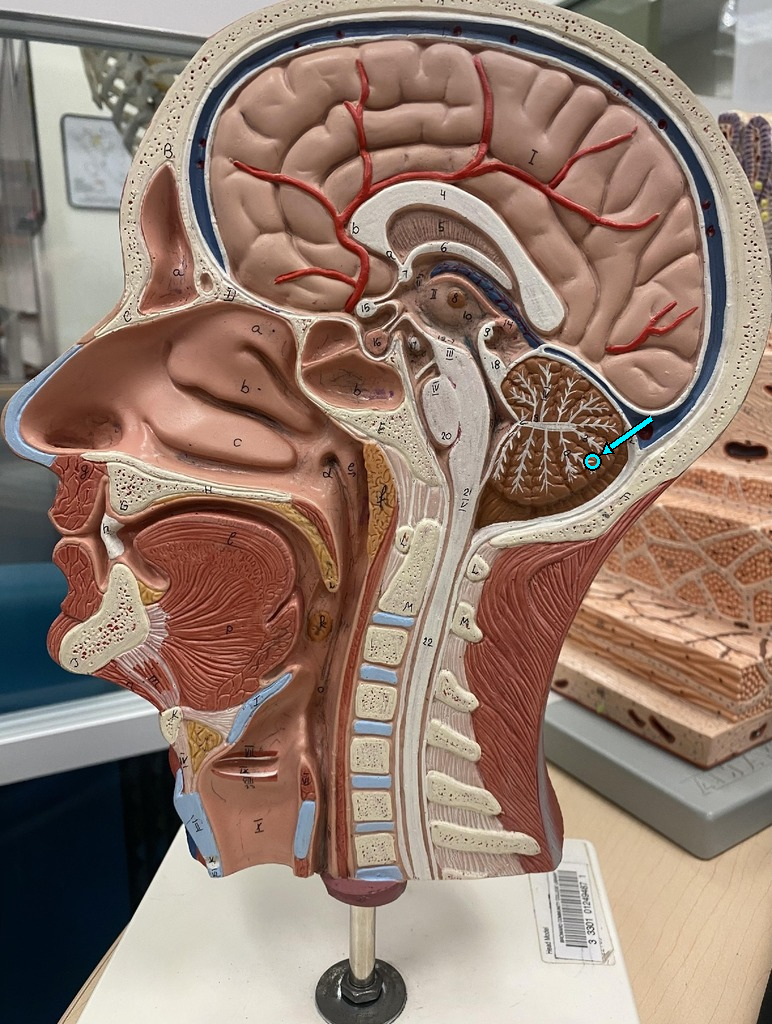
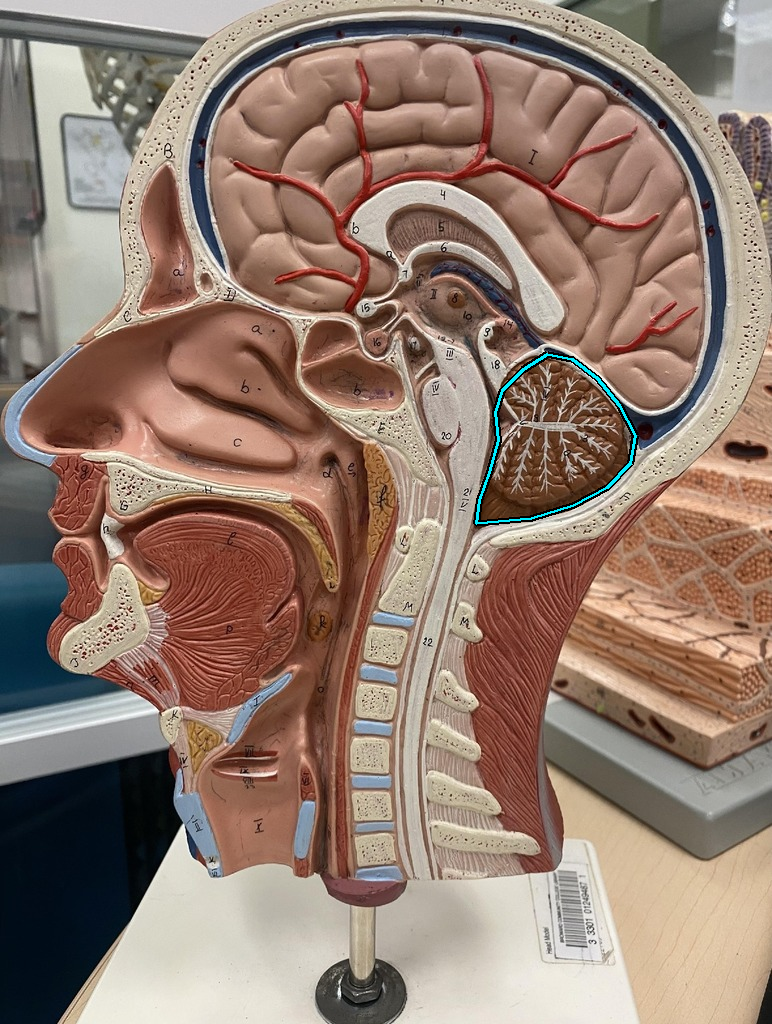
Distinguish the full cerebellum section from arbor vitae branching

Changed region(s): [[0.715, 0.375, 0.8394, 0.5], [0.5907, 0.375, 0.715, 0.5312], [0.6528, 0.3438, 0.7772, 0.375]]

diff --git a/tests/brain-left-sagittal.test.js b/tests/brain-left-sagittal.test.js
@@ -30,7 +30,7 @@ test('each identification card has its own marked image and supports both answer
             const model = manifest.models.find(model => model.id === question.labModelId);
             assert.equal(createHash('sha256').update(bytes).digest('hex'), model.imageSha256);
             assert.notEqual(model.imageSha256, manifest.sourceImageSha256);
-            assert.equal(question.question, 'Identify the structure indicated by the cyan arrow and open ring.');
+            assert.equal(question.question, model.questions[0].question);
             assert.ok(question.requiresModelImage);
             assert.ok(question.question.length > 30);
             if (mode === 'multiple_choice') {
@@ -70,4 +70,17 @@ for model in data['models']:
 print('26 pixel-preserving overlays verified')
 `], { cwd: new URL('..', import.meta.url), encoding: 'utf8' });
     assert.match(result, /26 pixel-preserving overlays verified/);
+});
+
+
+test('cerebellum highlights the full section while arbor vitae identifies multiple white branches', () => {
+    const cerebellum = manifest.models.find(m => m.name === 'Cerebellum');
+    const arbor = manifest.models.find(m => m.name === 'Arbor vitae');
+    assert.equal(cerebellum.annotation.kind, 'whole-section-outline');
+    assert.ok(cerebellum.annotation.outline.length > 10);
+    assert.match(cerebellum.questions[0].question, /entire section/);
+    assert.equal(arbor.annotation.kind, 'branching-network-markers');
+    assert.equal(arbor.annotation.targets.length, 3);
+    assert.match(arbor.questions[0].question, /branching network/);
+    assert.notEqual(arbor.expectedImageFile, cerebellum.expectedImageFile);
 });

diff --git a/scripts/renderBrainMarkers.py b/scripts/renderBrainMarkers.py
@@ -25,15 +25,36 @@ def main():
   draw.polygon(triangle,fill='#00edff',outline='black',width=2)
   draw.ellipse((x-radius-2,y-radius-2,x+radius+2,y+radius+2),outline='black',width=4)
   draw.ellipse((x-radius,y-radius,x+radius,y+radius),outline='#00edff',width=3)
+  special=None
+  if model['name']=='Cerebellum':
+   image=original.copy();draw=ImageDraw.Draw(image)
+   boundary=[(547,354),(572,359),(597,378),(619,405),(635,435),(630,463),(607,487),(573,505),(531,518),(476,523),(479,500),(489,472),(498,440),(495,412),(502,390),(523,369),(547,354)]
+   draw.line(boundary,fill='black',width=7,joint='curve');draw.line(boundary,fill='#00edff',width=3,joint='curve')
+   special={'kind':'whole-section-outline','outline':boundary,'overlayBounds':[470,348,641,529]}
+  elif model['name']=='Arbor vitae':
+   image=original.copy();draw=ImageDraw.Draw(image)
+   branches=[((539,389),(606,354)),((581,425),(656,411)),((547,468),(623,514))]
+   for (bx,by),start in branches:
+    dx,dy=bx-start[0],by-start[1];length=math.hypot(dx,dy);ux,uy=dx/length,dy/length
+    tip=(bx-ux*9,by-uy*9);base=(tip[0]-ux*12,tip[1]-uy*12)
+    triangle=[tip,(base[0]-uy*6,base[1]+ux*6),(base[0]+uy*6,base[1]-ux*6)]
+    draw.line([start,base],fill='black',width=8);draw.line([start,base],fill='#00edff',width=4)
+    draw.polygon(triangle,fill='#00edff',outline='black',width=2)
+    draw.ellipse((bx-7,by-7,bx+7,by+7),outline='black',width=3)
+    draw.ellipse((bx-5,by-5,bx+5,by+5),outline='#00edff',width=2)
+   special={'kind':'branching-network-markers','targets':[list(point) for point,tail in branches],'tails':[list(tail) for point,tail in branches],'overlayBounds':[530,345,665,523]}
   file=out/f'brain-{i:02}.png';image.save(file,optimize=True)
   model['expectedImageFile']=f'brain-left-sagittal/{file.name}'
   model['renderMethod']='original-photo-arrow-and-ring-overlay'
   model['imageSha256']=hashlib.sha256(file.read_bytes()).hexdigest()
   model['annotation']={'kind':'arrow-and-open-ring','target':[x,y],'tail':list(tail),'radius':radius,'overlayBounds':[x-12,y-49,x+65,y+12]}
+  if special:
+   model['annotation']=special
+   model['renderMethod']='original-photo-section-outline' if i==15 else 'original-photo-branching-network-markers'
   for q in model['questions']:
-   q['question']='Identify the structure indicated by the cyan arrow and open ring.'
+   q['question']='Identify the entire section outlined in cyan.' if i==15 else 'Identify the branching network indicated by the cyan markers.' if i==16 else 'Identify the structure indicated by the cyan arrow and open ring.'
    q['typedQuestion']=q['question']
- data['source']='User-provided Head.jpg, 26-term vocabulary list, and reference screenshot. One cyan arrow and open ring identify the target on each card. Original source anatomy is preserved outside the pointer overlay.'
+ data['source']='User-provided Head.jpg, 26-term vocabulary list, and reference screenshot. Cyan pointers identify individual targets; the cerebellum uses a whole-section outline and arbor vitae uses markers on multiple white-matter branches. Original source anatomy is preserved outside the pointer overlay.'
  FILE.write_text(json.dumps(data,indent=2)+'\n')
  print('Rendered',len(data['models']),'individual marked cards.')
 if __name__=='__main__':main()

diff --git a/docs/brain-left-sagittal-lab.md b/docs/brain-left-sagittal-lab.md
@@ -2,7 +2,7 @@
 
 Open `/quiz` (or `/test`) → Anatomy and Physiology Lab → Nervous System → 3D Model of the Structures of the Brain - Left Sagittal View.
 
-Includes all 26 user-specified terms, with multiple-choice and typed-answer identification questions. Each question shows a separate marked version of the original photo with one high-contrast cyan arrow and open ring. The prompt asks the member to identify the marked structure. Common synonyms are accepted in typed mode. The question selector supports choosing a smaller subset.
+Includes all 26 user-specified terms, with multiple-choice and typed-answer identification questions. Each question shows a separate marked version of the original photo with high-contrast cyan markers. Cerebellum uses an outline around its full section; arbor vitae uses three pointers on separate white-matter branches. Other structures use a single arrow and open ring. The prompt asks the member to identify the marked structure. Common synonyms are accepted in typed mode. The question selector supports choosing a smaller subset.
 
 Source: `Head.jpg` from the user's `Head.jpg.zip`, plus the user's term list and reference screenshot. The JPEG is stored byte-for-byte as `study-assets/lab-models/brain-left-sagittal-original.jpg`; the manifest records its SHA-256. The renderer `scripts/renderBrainMarkers.py` applies one pointer overlay to each card; every pixel outside that overlay remains identical to the decoded original photograph. Small central structures have separate, precise marker locations.
 
